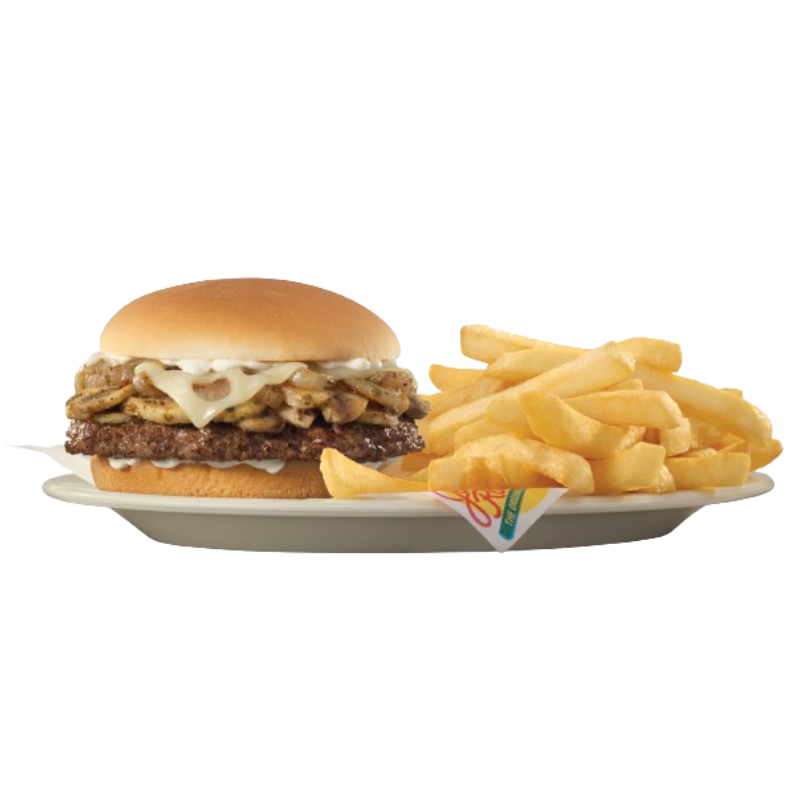
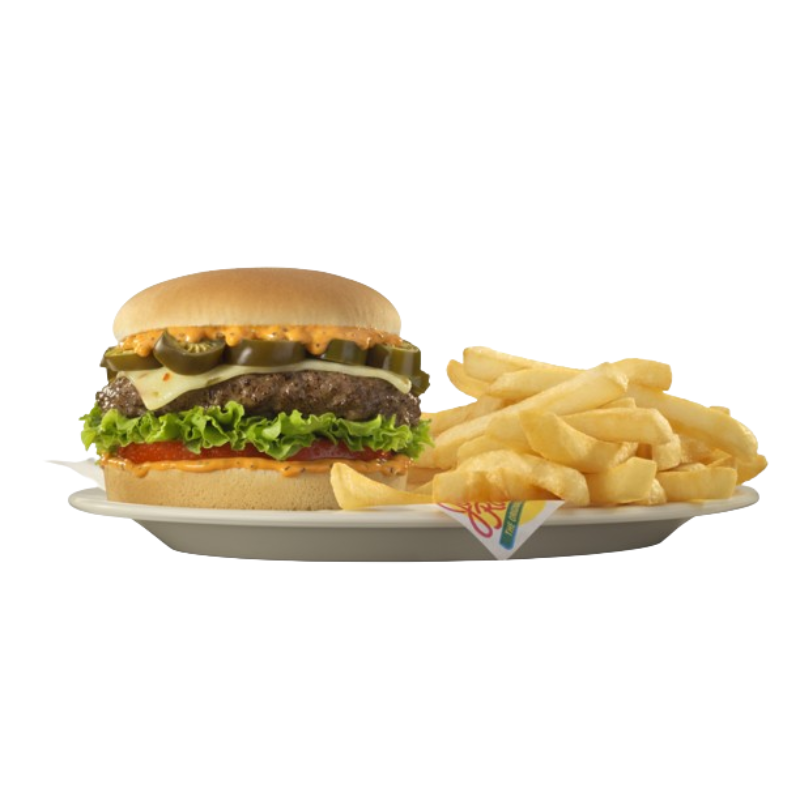
img-delivery

Changed region(s): [[0.0312, 0.3125, 1.0, 0.7188]]

diff --git a/delivery.php b/delivery.php
@@ -12,7 +12,6 @@
 </head>
 <body>
 
-
 <div class="bg-pattern bg-light repeat-img"
                 style="background-image: url(assets/images/blog-pattern-bg.png);">
                 <section class="blog-sec section" id="blog">
@@ -36,76 +35,76 @@
         <div class="contenedor-items">
             <div class="item">
                 <span class="titulo-item">The Original</span>
-                <img src="assets/images/dish/b2.png" alt="" class="img-item">
+                <img src="assets/images/dish/b1.png" alt="" class="img-item">
                 <span class="precio-item">$2.400</span>
                 <button class="boton-item">Agregar al Carrito</button>
             </div>
             <div class="item">
                 <span class="titulo-item">Route 66</span>
-                <img src="assets/images/dish/b2.png" alt="" class="img-item">
+                <img src="assets/images/dish/b2.1.png" alt="" class="img-item">
                 <span class="precio-item">$3.200</span>
                 <button class="boton-item">Agregar al Carrito</button>
             </div>
             <div class="item">
                 <span class="titulo-item">T. Spicy Houston</span>
-                <img src="assets/images/dish/b2.png" alt="" class="img-item">
+                <img src="assets/images/dish/b3.png" alt="" class="img-item">
                 <span class="precio-item">$4.200</span>
                 <button class="boton-item">Agregar al Carrito</button>
             </div>
             <div class="item">
                 <span class="titulo-item">Smoke House</span>
-                <img src="assets/images/dish/b2.png" alt="" class="img-item">
+                <img src="assets/images/dish/b4.png" alt="" class="img-item">
                 <span class="precio-item">$4.500</span>
                 <button class="boton-item">Agregar al Carrito</button>
             </div>
             <div class="item">
                 <span class="titulo-item">Grilled Chicken B.</span>
-                <img src="assets/images/dish/b2.png" alt="" class="img-item">
+                <img src="assets/images/dish/b5.png" alt="" class="img-item">
                 <span class="precio-item">$4.200</span>
                 <button class="boton-item">Agregar al Carrito</button>
             </div>
             <div class="item">
                 <span class="titulo-item">#12 Hamburger</span>
-                <img src="assets/images/dish/b2.png" alt="" class="img-item">
+                <img src="assets/images/dish/b6.png" alt="" class="img-item">
                 <span class="precio-item">$4.200</span>
                 <button class="boton-item">Agregar al Carrito</button>
             </div>
             <div class="item">
                 <span class="titulo-item">American Fries</span>
-                <img src="assets/images/dish/b2.png" alt="" class="img-item">
+                <img src="assets/images/dish/b7.png" alt="" class="img-item">
                 <span class="precio-item">$1.250</span>
                 <button class="boton-item">Agregar al Carrito</button>
             </div>
             <div class="item">
                 <span class="titulo-item">Bacon C. Fries</span>
-                <img src="assets/images/dish/b2.png" alt="" class="img-item">
+                <img src="assets/images/dish/b8.png" alt="" class="img-item">
                 <span class="precio-item">$1.675</span>
                 <button class="boton-item">Agregar al Carrito</button>
             </div>
             <div class="item">
                 <span class="titulo-item">Onion Rings</span>
-                <img src="assets/images/dish/b2.png" alt="" class="img-item">
+                <img src="assets/images/dish/b9.png" alt="" class="img-item">
                 <span class="precio-item">$2.100</span>
                 <button class="boton-item">Agregar al Carrito</button>
 
         </div>
         <div class="item">
                 <span class="titulo-item">Chicken Bites</span>
-                <img src="assets/images/dish/b2.png" alt="" class="img-item">
+                <img src="assets/images/dish/b10.png" alt="" class="img-item">
                 <span class="precio-item">$2.800</span>
                 <button class="boton-item">Agregar al Carrito</button>
 
         </div>
         <div class="item">
                 <span class="titulo-item">Gaseosa</span>
-                <img src="assets/images/dish/b2.png" alt="" class="img-item">
+                <img src="assets/images/dish/b11.png" alt="" class="img-item">
                 <span class="precio-item">$1.400</span>
                 <button class="boton-item">Agregar al Carrito</button>
 
         </div>
         <div class="item">
                 <span class="titulo-item">Floats</span>
-                <img src="assets/images/dish/b2.png" alt="" class="img-item">
+                <img src="assets/images/dish/b12.png" alt="" class="img-item">
                 <span class="precio-item">$2.200</span>
                 <button class="boton-item">Agregar al Carrito</button>
             </div>
@@ -124,7 +123,7 @@
                 <div class="fila">
                     <strong>Tu Total</strong>
                     <span class="carrito-precio-total">
-                        $120.000,00
+                        
                     </span>
                 </div>
                 <button class="btn-pagar">Pagar<i class="fa-solid fa-bag-shopping"></i> </button>

diff --git a/header.php b/header.php
@@ -59,7 +59,7 @@
                             <a href="javascript:void(0)" class="header-btn header-cart">
                                 <i class="uil uil-shopping-bag"></i>
                             </a>
-                            <a href="javascript:void(0)" class="header-btn">
+                            <a href="perfil.php" class="header-btn">
                                 <i class="uil uil-user-md"></i>
                             </a>
                         </div>
